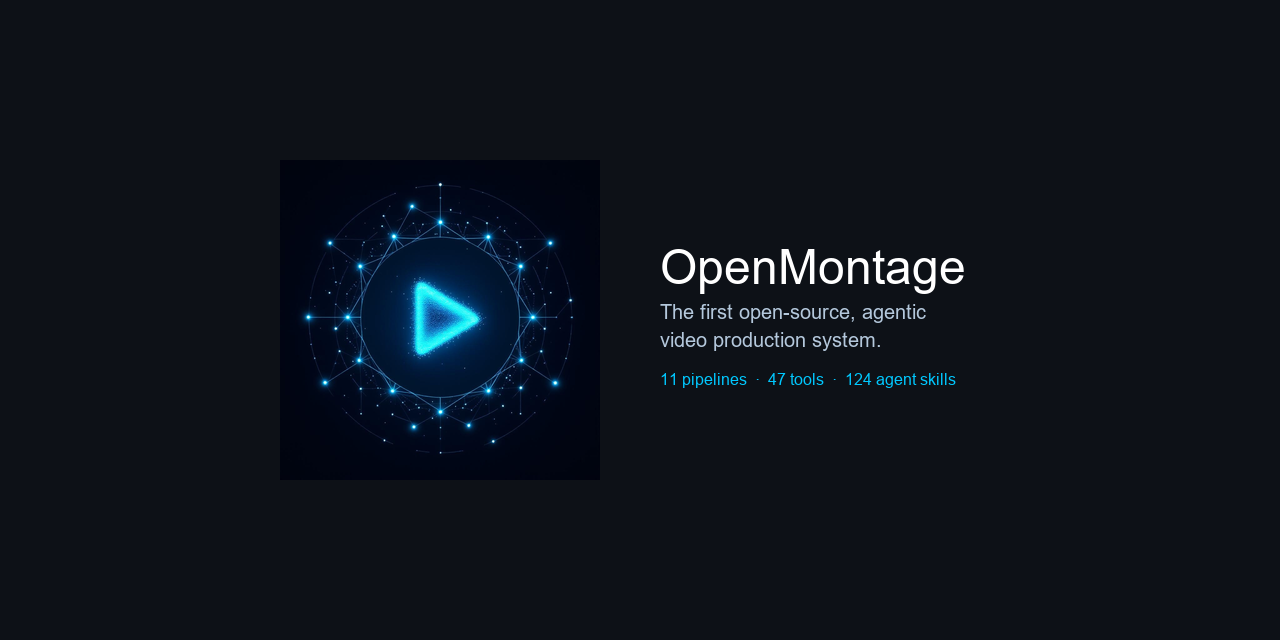
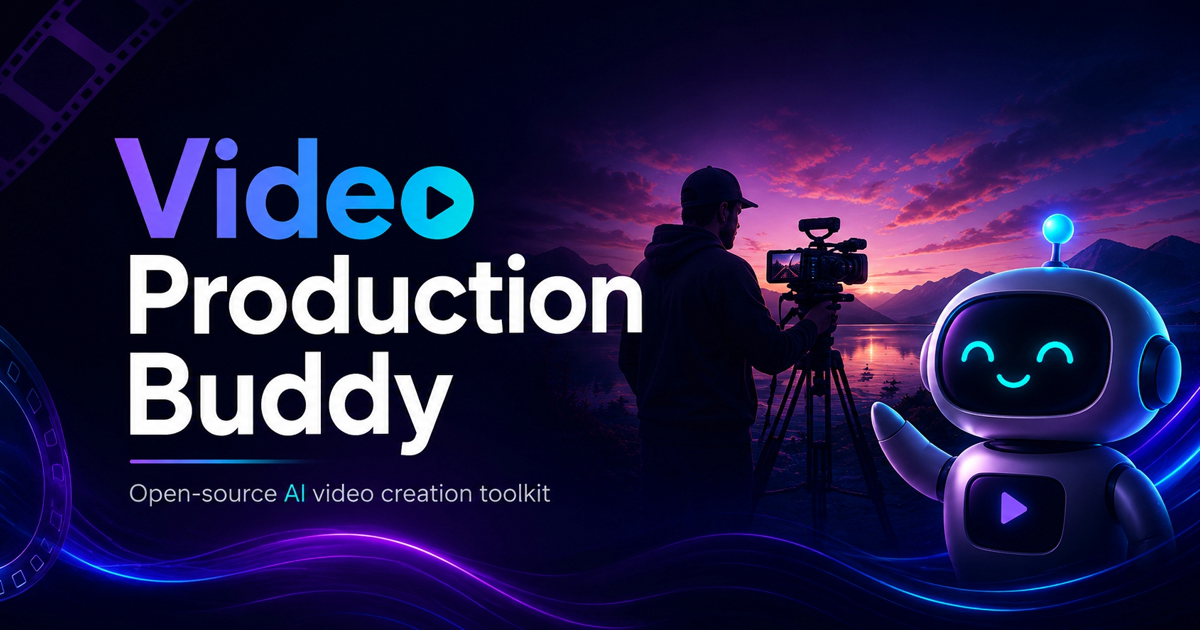
feat: host demos via GitHub Releases

diff --git a/index.html b/index.html
@@ -17,8 +17,8 @@
   <meta property="og:description" content="An agentic video production system for AI creators and developers.">
   <meta property="og:url" content="https://video-production-buddy.github.io/">
   <meta property="og:image" content="https://video-production-buddy.github.io/static/images/social_preview.png">
-  <meta property="og:image:width" content="1280">
-  <meta property="og:image:height" content="640">
+  <meta property="og:image:width" content="1200">
+  <meta property="og:image:height" content="630">
   <meta property="og:image:alt" content="Video Production Buddy preview">
 
   <meta name="twitter:card" content="summary_large_image">
@@ -103,7 +103,7 @@
               <span>production-board.mov</span>
               <div class="status-dots" aria-hidden="true"><span></span><span></span><span></span></div>
             </div>
-            <img src="static/images/showcase.jpg" alt="A cinematic video production showcase frame">
+            <img src="static/images/video_production_buddy.jpg" alt="Video Production Buddy teaser image">
             <div class="metrics-strip">
               <div class="metric">
                 <strong>12+</strong>
@@ -131,13 +131,43 @@
           Video Production Buddy builds videos through explicit stages. The agent chooses a pipeline, checks real tool availability, asks for approval at creative gates, logs major decisions, and reviews the final render before presenting it.
         </p>
         <div class="demo-frame">
-          <video controls muted playsinline poster="static/images/showcase.jpg" preload="metadata">
-            <source src="https://github.com/user-attachments/assets/f77ce7a4-68b8-4f94-a287-e94bf50a32e1" type="video/mp4">
+          <video controls muted playsinline poster="static/images/demo1_poster.jpg" preload="none">
+            <source src="https://github.com/video-production-buddy/video-production-buddy.github.io/releases/download/demo-assets-v1/demo1.mp4" type="video/mp4">
           </video>
           <div class="demo-caption">
-            <span><strong>Signal From Tomorrow</strong> — concept, script, motion clips, soundtrack, and composition produced through the pipeline.</span>
-            <a href="https://github.com/zhouzhoushen/video-production-buddy" target="_blank" rel="noopener">Inspect the project</a>
+            <span><strong>Anime story sample</strong> — a full motion demo hosted as a GitHub Release asset, keeping the Pages branch lightweight.</span>
+            <a href="https://github.com/video-production-buddy/video-production-buddy.github.io/releases/tag/demo-assets-v1" target="_blank" rel="noopener">Release assets</a>
           </div>
+        </div>
+        <div class="demo-grid" aria-label="More Video Production Buddy demos">
+          <article class="demo-card">
+            <video controls muted playsinline poster="static/images/demo2_poster.jpg" preload="none">
+              <source src="https://github.com/video-production-buddy/video-production-buddy.github.io/releases/download/demo-assets-v1/demo2.mp4" type="video/mp4">
+            </video>
+            <h3>Vertical launch reel</h3>
+            <p>Short-form composition for mobile-first social playback.</p>
+          </article>
+          <article class="demo-card">
+            <video controls muted playsinline poster="static/images/demo3_poster.jpg" preload="none">
+              <source src="https://github.com/video-production-buddy/video-production-buddy.github.io/releases/download/demo-assets-v1/demo3.mp4" type="video/mp4">
+            </video>
+            <h3>Product teaser setup</h3>
+            <p>A quiet product-open sequence with captions and cinematic pacing.</p>
+          </article>
+          <article class="demo-card">
+            <video controls muted playsinline poster="static/images/demo4_poster.jpg" preload="none">
+              <source src="https://github.com/video-production-buddy/video-production-buddy.github.io/releases/download/demo-assets-v1/demo4.mp4" type="video/mp4">
+            </video>
+            <h3>Macro product detail</h3>
+            <p>Close-up commercial language for premium hardware storytelling.</p>
+          </article>
+          <article class="demo-card">
+            <video controls muted playsinline poster="static/images/demo5_poster.jpg" preload="none">
+              <source src="https://github.com/video-production-buddy/video-production-buddy.github.io/releases/download/demo-assets-v1/demo5.mp4" type="video/mp4">
+            </video>
+            <h3>Cinematic scene sample</h3>
+            <p>Live-action style scene construction with atmosphere and dialogue framing.</p>
+          </article>
         </div>
       </div>
     </section>

diff --git a/static/css/index.css b/static/css/index.css
@@ -314,6 +314,43 @@ a {
   color: var(--ink);
 }
 
+.demo-grid {
+  display: grid;
+  grid-template-columns: repeat(2, minmax(0, 1fr));
+  gap: 1rem;
+  margin-top: 1rem;
+}
+
+.demo-card {
+  border: 1px solid var(--ink);
+  border-radius: var(--radius);
+  background: var(--panel);
+  box-shadow: var(--soft-shadow);
+  overflow: hidden;
+}
+
+.demo-card video {
+  display: block;
+  width: 100%;
+  aspect-ratio: 16 / 9;
+  background: var(--ink);
+  object-fit: contain;
+}
+
+.demo-card h3 {
+  padding: 1rem 1rem 0.2rem;
+  color: var(--ink);
+  font-size: 1rem;
+  font-weight: 900;
+  line-height: 1.2;
+}
+
+.demo-card p {
+  padding: 0 1rem 1rem;
+  color: var(--muted);
+  font-size: 0.95rem;
+}
+
 .workflow-grid,
 .example-grid,
 .capability-grid {
@@ -477,7 +514,8 @@ a {
   .hero-grid,
   .workflow-grid,
   .example-grid,
-  .capability-grid {
+  .capability-grid,
+  .demo-grid {
     grid-template-columns: 1fr;
   }
 